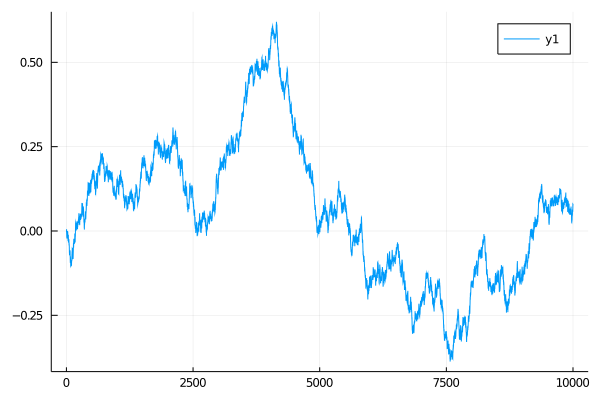
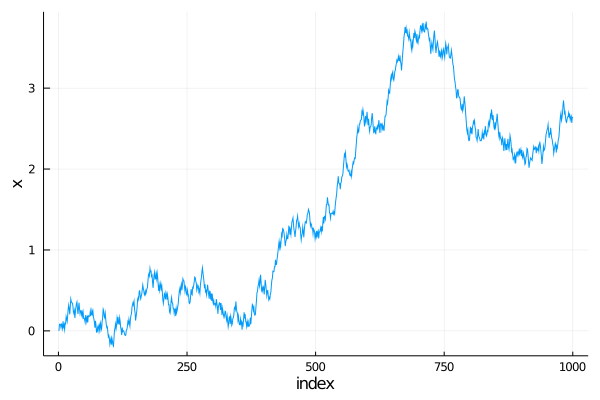
updated readme and test

diff --git a/README.md b/README.md
@@ -57,10 +57,10 @@ The corresponding plot is:
 
 ### Data that is time-correlated
 
-The data above is not correlated in the input `x` vector. If the data is correlated, one can observe that in the dependence of the estimates of the average and error from the data. One can genereate a test data set using:
+The data above is not correlated in the input `x` vector. If the data is correlated, one can observe that in the dependence of the estimates of the average and error from the data. One can generate a test data (sort of a monte-carlo simulation of a particle in an harmonic well) set using:
 
 ```
-julia> x = BlockAverage.test_data(10_000);
+julia> x = BlockAverage.test_data(1_000);
 
 ```
 Which in this run produced:
@@ -77,6 +77,20 @@ julia> scatter(sizes,avg,ribbon=err,label="",ylabel="mean and error",xlabel="blo
 ```
 
 ![corrleated2.png](./docs/images/correlated2.png)
+
+If we increase the sampling by generating longer simulation:
+```
+julia> x = BlockAverage.test_data(1_000_000);
+
+```
+
+The obtained set is now much better sampled,
+
+![corrleated3.png](./docs/images/correlated2.png)
+
+
+and it is possible to observe the convergence of the estimate of the error of the mean for block sizes that are large enough. 
+
 
 
 
